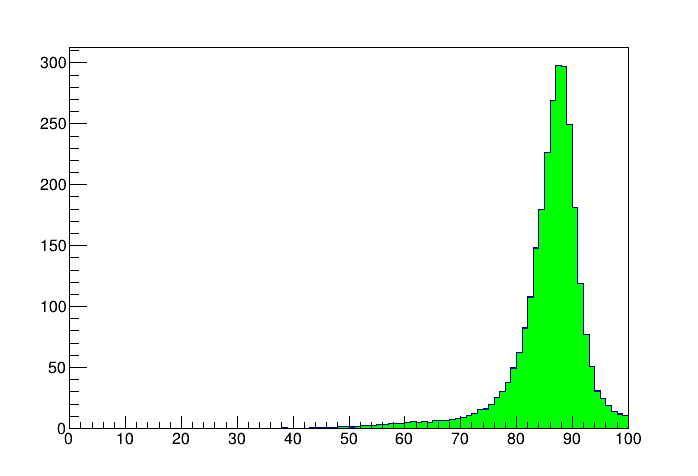
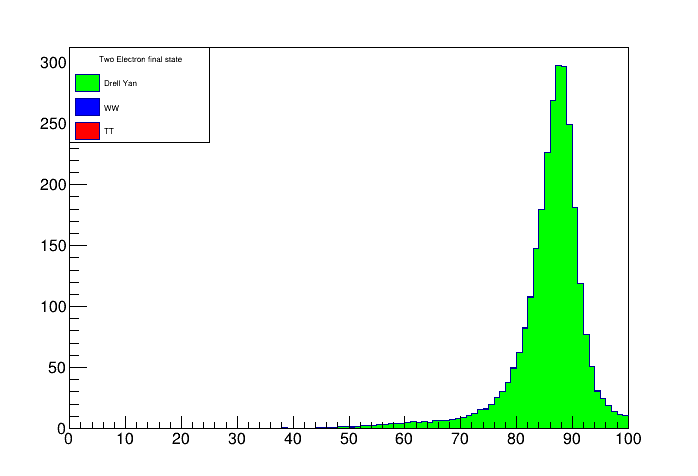
Adding a lot of plots that were produced from this code as well as some adjusments to some code to make sure it works.

Changed region(s): [[0.0903, 0.1176, 0.2708, 0.2941]]

diff --git a/jetCounting.cpp b/jetCounting.cpp
@@ -24,6 +24,13 @@
 #include <vector>
 #include <cmath>
 #include <iostream>
+#include <filesystem>
+#include <string>
+
+//using std::cin; using std::cout;
+//using std::filesystem::directory_iterator;
+//using std::endl; using std::string;
+
 
 void runningForLoop(const char *);
 
@@ -70,12 +77,10 @@ void jetCounting() {
     Int_t countJets = 0;
     Int_t countLeptons = 0;
     Float_t delR = 0;
-    TLorentzVector vector1;
-    TLorentzVector vector2;
+
 
 //    ROOT::Math::LorentzVector<ROOT::Math::PtEtaPhiMVector> Particles [50];
-    std::vector<TLorentzVector> Leptons;
-    std::vector<TLorentzVector> Jets;
+
 
     TString typeRun = "bJetCounting"; //this should be changed when you do another run ie MET or Bjet etc.
     TDirectory *curDir = gDirectory;
@@ -96,6 +101,13 @@ void jetCounting() {
 
 
     for (int q = 0; q < 3; q++) {
+        histJets->Reset();
+        histMET -> Reset();
+        histLowEPair -> Reset();
+        TLorentzVector vector1;
+        TLorentzVector vector2;
+        std::vector<TLorentzVector> Leptons;
+        std::vector<TLorentzVector> Jets;
         switch (q) {
             case 0:
                 typeProcess = "DYJetsToLL_M-50_TuneCP5_13TeV-amcatnloFXFX-pythia8";
@@ -119,6 +131,9 @@ void jetCounting() {
         }
 
         TChain *mainTree = new TChain("Events"); //creates the chain that will hold all the branches from 1 process
+//        for (const auto & file: recursive_directory_iterator(constantString + typeProcess)) {
+//            cout << file.path() << endl;
+//        }
         mainTree->Add(constantString + typeProcess + "/*.root"); //adds all the files for 1 process (ie dy*.root)
 
 
@@ -154,8 +169,8 @@ void jetCounting() {
         mainTree->SetBranchAddress("MET_pt", &MET);
 
         std::cout << "Events: " << events << std::endl;
+        std::cout << "Events: " << mainTree->GetTreeNumber()<< std::endl;
         for (UInt_t event = 0; event < events; event++) {
-//            std::cout << "Got here"<< std::endl;
             mainTree->GetEntry(event);
             if (numberOfElec + numberOfMunons >= 2) {
                 countLeptons = 0;
@@ -208,14 +223,14 @@ void jetCounting() {
                         Float_t CountedTransE = 0;
                         Float_t MLB = 0;
                         histMET->Fill(MET);
-                        Float_t min = INFINITY;
-                        for (auto i: Jets) {
-                            for (auto j: Leptons) {
-                                min = (i + j).M() < min ? (i + j).M() : min;
-                            }
-                        }
-                        histLowEPair->Fill(min);
                     } //#ENDIF
+                    Float_t min = INFINITY;
+                    for (auto i: Jets) {
+                        for (auto j: Leptons) {
+                            min = (i + j).M() < min ? (i + j).M() : min;
+                        }
+                    }
+                    histLowEPair->Fill(min);
                     histJets->Fill(countJets);
                 }
             }//end of looking at good event #ENDIF
@@ -236,6 +251,7 @@ void jetCounting() {
         resultFileMLB->WriteTObject(histLowEPair);
 
         delete mainTree;
+        mainTree = nullptr;
     }//end all three proceeses
     delete histJets;
     delete histMET;

diff --git a/stackedHistogramsForDWT.cpp b/stackedHistogramsForDWT.cpp
@@ -97,7 +97,8 @@ void stackHist(const TString& folderName)
     mainTree->SetBranchAddress("Electron_mass", mass_elec);             //setting branch adresses for electron
     mainTree->SetBranchAddress("nElectron", &numberOfElec);                 //setting branch adresses for electron
     mainTree->SetBranchAddress("genWeight", &genWeight);
-
+    std::cout << events << std::endl;
+    std::cout << mainTree -> GetTreeNumber() << std::endl;
     for (UInt_t event = 0; event < events; event++){
         mainTree ->GetEntry(event);
         if (numberOfElec + numberOfMunons >= 2){
@@ -128,18 +129,18 @@ void stackHist(const TString& folderName)
             {
                 if (countelec == 1){
                     //write to elec mu hist
-                    std::cout <<  sqrt(pow( accumulate(Energy.begin(), Energy.end(), 0.0),2 ) - ( pow(accumulate(px.begin(), px.end(),0.0),2) + pow(accumulate(py.begin(), py.end(), 0.0),2) + pow(accumulate(pz.begin(), pz.end(), 0.0),2)) )  << std::endl;
+//                    std::cout <<  sqrt(pow( accumulate(Energy.begin(), Energy.end(), 0.0),2 ) - ( pow(accumulate(px.begin(), px.end(),0.0),2) + pow(accumulate(py.begin(), py.end(), 0.0),2) + pow(accumulate(pz.begin(), pz.end(), 0.0),2)) )  << std::endl;
                     histEMu -> Fill( sqrt(pow( accumulate(Energy.begin(), Energy.end(), 0.0),2 ) - ( pow(accumulate(px.begin(), px.end(),0.0),2) + pow(accumulate(py.begin(), py.end(), 0.0),2) + pow(accumulate(pz.begin(), pz.end(), 0.0),2)) ), genWeight );
                 }
                 else if (countmu == 2){
                     //write to mumu hist
-                    std::cout <<  sqrt(pow( accumulate(Energy.begin(), Energy.end(), 0.0),2 ) - ( pow(accumulate(px.begin(), px.end(),0.0),2) + pow(accumulate(py.begin(), py.end(), 0.0),2) + pow(accumulate(pz.begin(), pz.end(), 0.0),2)) )  << std::endl;
+//                    std::cout <<  sqrt(pow( accumulate(Energy.begin(), Energy.end(), 0.0),2 ) - ( pow(accumulate(px.begin(), px.end(),0.0),2) + pow(accumulate(py.begin(), py.end(), 0.0),2) + pow(accumulate(pz.begin(), pz.end(), 0.0),2)) )  << std::endl;
                     histMuMu -> Fill( sqrt(pow( accumulate(Energy.begin(), Energy.end(), 0.0),2 ) - ( pow(accumulate(px.begin(), px.end(),0.0),2) + pow(accumulate(py.begin(), py.end(), 0.0),2) + pow(accumulate(pz.begin(), pz.end(), 0.0),2)) ),genWeight );
                 }
                 else
                 {
                     //write to ee hist
-                    std::cout <<  sqrt(pow( accumulate(Energy.begin(), Energy.end(), 0.0),2 ) - ( pow(accumulate(px.begin(), px.end(),0.0),2) + pow(accumulate(py.begin(), py.end(), 0.0),2) + pow(accumulate(pz.begin(), pz.end(), 0.0),2)) )  << std::endl;
+//                    std::cout <<  sqrt(pow( accumulate(Energy.begin(), Energy.end(), 0.0),2 ) - ( pow(accumulate(px.begin(), px.end(),0.0),2) + pow(accumulate(py.begin(), py.end(), 0.0),2) + pow(accumulate(pz.begin(), pz.end(), 0.0),2)) )  << std::endl;
                     histEE -> Fill( sqrt(pow( accumulate(Energy.begin(), Energy.end(), 0.0),2 ) - ( pow(accumulate(px.begin(), px.end(),0.0),2) + pow(accumulate(py.begin(), py.end(), 0.0),2) + pow(accumulate(pz.begin(), pz.end(), 0.0),2)) ),genWeight );
                 }
                 genWeightSum += genWeight;

diff --git a/plottingStackedHistLooped.cpp b/plottingStackedHistLooped.cpp
@@ -9,6 +9,7 @@
 #include "TCanvas.h"
 #include "THStack.h"
 #include "TStyle.h"
+#include "TLegend.h"
 
 
 #include <iostream>
@@ -27,10 +28,12 @@ void plotStackedHistLooped (){
     TCanvas canvasForEE ("Canvas for elec elec");
     TCanvas canvasForMuE ("Canvas for mu elec");
     TCanvas canvasForMuMu ("Canvas for mu mu");
+    TLegend* legend = new TLegend(0.1,0.7,0.3,0.9);
 
 
-    TFile *inDY = TFile::Open("/home/ananda/Documents/UCSB/Research_Particle_Phys/Root/root/macros/ROOTiNTRODUCTION/JetFromDy.png","read");
-    TFile *inWW = TFile::Open("/home/ananda/Documents/UCSB/Research_Particle_Phys/Root/root/macros/ROOTiNTRODUCTION/JetFromDy.png","read");
+
+    TFile *inDY = TFile::Open("/home/ananda/Documents/UCSB/Research_Particle_Phys/afiles/DYJetsToLL_M-50_TuneCP5_13TeV-amcatnloFXFX-pythia8-Result/hist.root","read");
+    TFile *inWW = TFile::Open("/home/ananda/Documents/UCSB/Research_Particle_Phys/afiles/WWTo2L2Nu_TuneCP5_13TeV-powheg-pythia8-Result/hist.root","read");
     TFile *inTT = TFile::Open("/home/ananda/Documents/UCSB/Research_Particle_Phys/afiles/TTTo2L2Nu_TuneCP5_13TeV-powheg-pythia8-Result/hist.root","read");
 
     gStyle -> SetOptStat(0);
@@ -44,12 +47,15 @@ void plotStackedHistLooped (){
         switch (i) {
             case 0:
                 runType = "hpxEE";
+                legend->SetHeader("Two Electron final state","C"); // option "C" allows to center the header
                 break;
             case 1:
                 runType = "hpxEMu";
+                legend->SetHeader("Electron Muon final state","C"); // option "C" allows to center the header
                 break;
             case 2:
                 runType = "hpxMuMu";
+                legend->SetHeader("Two Muon final state","C"); // option "C" allows to center the header
                 break;
             default:
                 break;
@@ -82,9 +88,33 @@ void plotStackedHistLooped (){
         hs -> Add(histWW);
         hs -> Add(histTT);
 
-        canvasForEE.cd();
-        hs -> Draw("hist");
-        canvasForEE.SaveAs(runType+".png");
+        switch (i) {
+            case 0:
+                canvasForEE.cd();
+//                canvasForEE.SetLogy();
+                hs -> Draw("hist");
+                legend->AddEntry(histDY,"Drell Yan","f");
+                legend->AddEntry(histWW,"WW","f");
+                legend->AddEntry(histTT,"TT","f");
+                legend->Draw();
+                canvasForEE.SaveAs(runType+".png");
+                break;
+            case 1:
+                canvasForMuE.cd();
+//                canvasForMuE.SetLogy();
+                hs -> Draw("hist");
+                legend->Draw();
+                canvasForMuE.SaveAs(runType+".png");
+                break;
+            case 2:
+                canvasForMuMu.cd();
+//                canvasForMuMu.SetLogy();
+                hs -> Draw("hist");
+                legend->Draw();
+                canvasForMuMu.SaveAs(runType+".png");
+                break;
+        }
+
 
         hs -> RecursiveRemove(histDY);
         hs -> RecursiveRemove(histWW);

diff --git a/plottingStackedHistGenLoop.cpp b/plottingStackedHistGenLoop.cpp
@@ -94,7 +94,7 @@ void plotStackedHistGenLoop (){
 
         canvas.cd();
 
-        canvas.SetLogy();
+//        canvas.SetLogy();
         hs -> Draw("hist");
         histTT ->SetFillColor(kRed);
         histWW ->SetFillColor(kBlue);
@@ -107,7 +107,7 @@ void plotStackedHistGenLoop (){
         }
 
         legend->Draw();
-        canvas.SaveAs(runType+"Log.png");
+        canvas.SaveAs(runType+".png");
 
         hs -> RecursiveRemove(histDY);
         hs -> RecursiveRemove(histWW);
